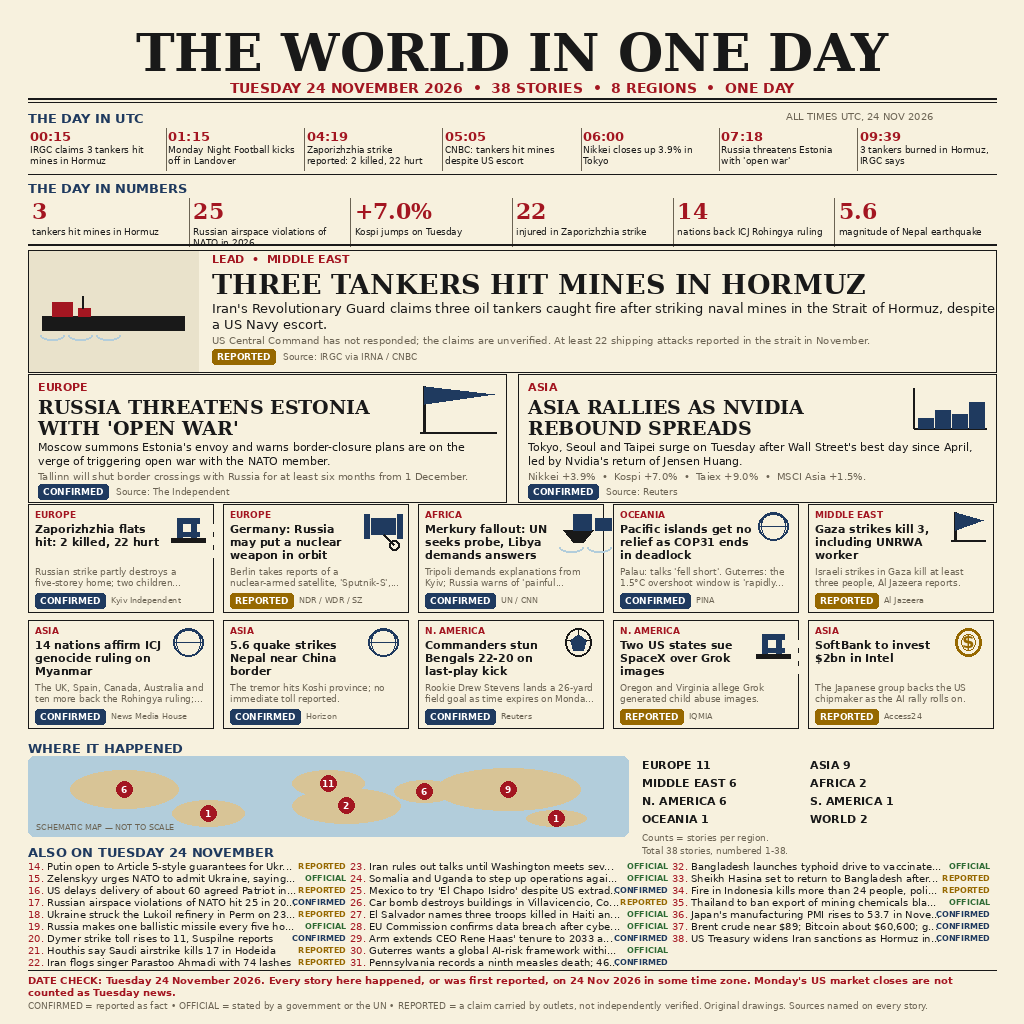
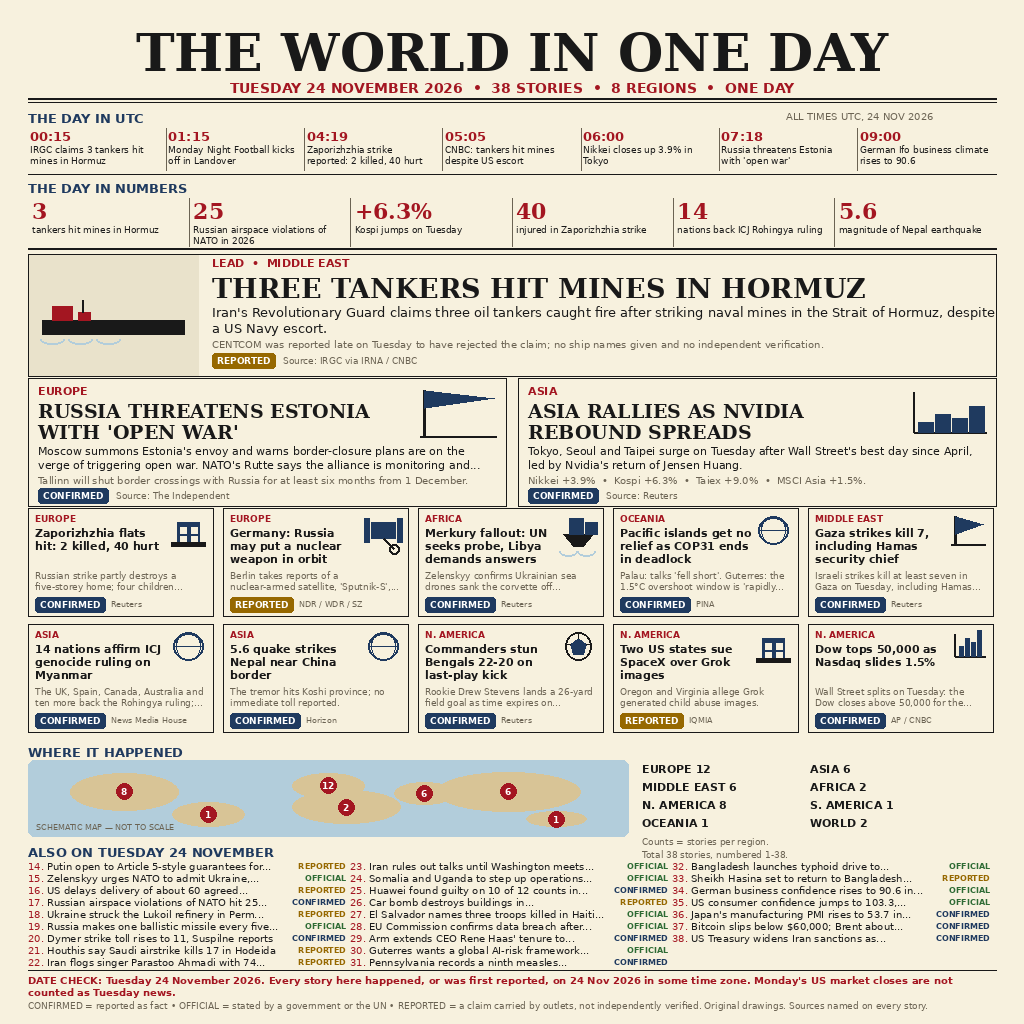
Final: 24 Nov news-image — kit level 40, 38 stories, lead Hormuz tankers

diff --git a/main.py b/main.py
@@ -1,12 +1,13 @@
 #!/usr/bin/env python3
 """The World in One Day - 24 November 2026.
 
-Renders one deterministic 1024x1024 PNG summing up the world's news of
-Tuesday 24 November 2026, from stories.json in this same directory.
+Draws one deterministic 1024x1024 PNG summing up the world's news of
+Tuesday 24 November 2026, reading the story data from stories.json next
+to this file.
 
-No network. No clock, no randomness: the same input files always produce
-the same bytes. Run:  python3 main.py   (writes /output/entry.png)
-or set OUTPUT_PATH to choose the destination.
+No network, no clock, no randomness: identical inputs always give
+identical bytes. Run:  python3 main.py   (writes /output/entry.png)
+or set OUTPUT_PATH to pick another destination.
 """
 
 import json
@@ -38,19 +39,18 @@ TAG_FILL = {
     "FORECAST": MUTED,
 }
 
-
-def font(name, size):
-    return ImageFont.truetype(os.path.join(HERE, "fonts", name), size)
-
-
 SERIF = "DejaVuSerif.ttf"
 SERIF_B = "DejaVuSerif-Bold.ttf"
 SANS = "DejaVuSans.ttf"
 SANS_B = "DejaVuSans-Bold.ttf"
 
 
+def font(name, size):
+    return ImageFont.truetype(os.path.join(HERE, "fonts", name), size)
+
+
 def wrap(text, fnt, max_w, draw):
-    """Split text into lines that fit max_w pixels."""
+    """Greedy word wrap to lines no wider than max_w pixels."""
     words = text.split()
     lines, cur = [], ""
     for word in words:
@@ -67,61 +67,70 @@ def wrap(text, fnt, max_w, draw):
 
 
 def fit_lines(text, fnt, max_w, max_lines, draw):
-    """Wrap text, truncating with an ellipsis to max_lines."""
+    """Wrap text and clip to max_lines with an ellipsis if needed.
+
+    The ellipsis always follows a whole word, never a chopped one.
+    """
     lines = wrap(text, fnt, max_w, draw)
     if len(lines) <= max_lines:
         return lines
     lines = lines[:max_lines]
     while lines and draw.textlength(lines[-1] + "...", font=fnt) > max_w:
-        lines[-1] = lines[-1][:-1]
+        words = lines[-1].split()
+        if len(words) > 1:
+            lines[-1] = " ".join(words[:-1])
+        else:
+            lines[-1] = lines[-1][:-1]
     lines[-1] = lines[-1].rstrip() + "..."
     return lines
 
 
 def one_line(text, fnt, max_w, draw):
-    """Truncate text to a single line that fits max_w."""
+    """Clip text to a single fitting line with an ellipsis if needed.
+
+    Truncation always ends at a word boundary, never mid-word.
+    """
     if draw.textlength(text, font=fnt) <= max_w:
         return text
     while text and draw.textlength(text + "...", font=fnt) > max_w:
         text = text[:-1]
-    return text.rstrip() + "..."
+    text = text.rstrip()
+    if " " in text:
+        text = text.rsplit(" ", 1)[0]
+    return text + "..."
 
 
 def chip(draw, x, y, tag):
-    """Verification tag chip; returns its width."""
+    """Draw a verification-tag chip; return its pixel width."""
     fnt = font(SANS_B, 9)
-    label = tag
-    tw = draw.textlength(label, font=fnt)
+    tw = draw.textlength(tag, font=fnt)
     w = int(tw) + 10
     h = 15
     draw.rounded_rectangle([x, y, x + w, y + h], radius=3,
                            fill=TAG_FILL.get(tag, MUTED))
-    draw.text((x + 5, y + 2), label, font=fnt, fill=(255, 255, 255))
+    draw.text((x + 5, y + 2), tag, font=fnt, fill=(255, 255, 255))
     return w
 
 
 def source_line(draw, x, y, source, max_w, size=9, prefix="Source: "):
     fnt = font(SANS, size)
-    txt = prefix + source
-    draw.text((x, y), one_line(txt, fnt, max_w, draw),
+    draw.text((x, y), one_line(prefix + source, fnt, max_w, draw),
               font=fnt, fill=MUTED)
 
 
 def draw_art(draw, kind, box, accent):
-    """Flat vector illustration inside box (x0, y0, x1, y1)."""
+    """Small flat vector drawing inside box (x0, y0, x1, y1)."""
     x0, y0, x1, y1 = box
     cx = (x0 + x1) // 2
     cy = (y0 + y1) // 2
     w = x1 - x0
-    h = y1 - y0
     if kind == "tanker":
         draw.rectangle([x0 + 4, cy + 2, x1 - 4, cy + 16], fill=INK)
         draw.rectangle([x0 + 14, cy - 12, x0 + 34, cy + 2], fill=accent)
         draw.rectangle([x0 + 40, cy - 6, x0 + 52, cy + 2], fill=accent)
         draw.line([x0 + 44, cy - 18, x0 + 44, cy - 6], fill=INK, width=2)
-        draw.arc([x0 + 2, cy + 16, x0 + 26, cy + 26], 0, 180, fill=SKY, width=2)
-        draw.arc([x0 + 30, cy + 16, x0 + 54, cy + 26], 0, 180, fill=SKY, width=2)
-        draw.arc([x0 + 58, cy + 16, x0 + 82, cy + 26], 0, 180, fill=SKY, width=2)
+        for bx in (x0 + 2, x0 + 30, x0 + 58):
+            draw.arc([bx, cy + 16, bx + 24, cy + 26], 0, 180, fill=SKY, width=2)
     elif kind == "flag":
         draw.line([x0 + 8, y0 + 4, x0 + 8, y1 - 4], fill=INK, width=3)
         draw.polygon([(x0 + 8, y0 + 4), (x1 - 6, y0 + 12),
@@ -140,9 +149,11 @@ def draw_art(draw, kind, box, accent):
         draw.rectangle([x0 + 10, y0 + 10, x1 - 10, y1 - 6], fill=NAVY)
         for r in range(3):
             for c in range(3):
-                wx = x0 + 16 + c * 14
-                wy = y0 + 16 + r * 13
-                draw.rectangle([wx, wy, wx + 7, wy + 7], fill=PAPER)
+                # Keep every window inside the art box: the old 14 px
+                # spacing pushed the right column past x1 (and the card border).
+                wx = x0 + 13 + c * 11
+                wy = y0 + 15 + r * 9
+                draw.rectangle([wx, wy, wx + 6, wy + 6], fill=PAPER)
         draw.rectangle([x0 + 4, y1 - 6, x1 - 4, y1 - 2], fill=INK)
     elif kind == "satellite":
         draw.rectangle([cx - 12, cy - 8, cx + 12, cy + 8], fill=NAVY)
@@ -151,12 +162,14 @@ def draw_art(draw, kind, box, accent):
         draw.line([cx, cy + 8, cx + 10, cy + 18], fill=INK, width=2)
         draw.ellipse([cx + 6, cy + 14, cx + 16, cy + 24], outline=INK, width=2)
     elif kind == "ship":
+        # All coordinates stay inside the art box (x0..x1, y0..y1):
+        # the old second container ended 12 px past x1, crossing the card border.
         draw.polygon([(x0 + 6, cy + 4), (x1 - 6, cy + 4),
                       (x1 - 16, cy + 16), (x0 + 16, cy + 16)], fill=INK)
-        draw.rectangle([x0 + 16, cy - 12, x0 + 34, cy + 4], fill=accent)
-        draw.rectangle([x0 + 38, cy - 8, x0 + 54, cy + 4], fill=NAVY)
-        draw.arc([x0 + 2, cy + 16, x0 + 26, cy + 26], 0, 180, fill=SKY, width=2)
-        draw.arc([x0 + 30, cy + 16, x0 + 54, cy + 26], 0, 180, fill=SKY, width=2)
+        draw.rectangle([x0 + 12, cy - 12, x0 + 26, cy + 4], fill=accent)
+        draw.rectangle([x0 + 28, cy - 8, x0 + 40, cy + 4], fill=NAVY)
+        for bx in (x0 + 2, x0 + 20):
+            draw.arc([bx, cy + 16, bx + 18, cy + 26], 0, 180, fill=SKY, width=2)
     elif kind == "globe":
         draw.ellipse([x0 + 6, y0 + 4, x1 - 6, y1 - 4], outline=NAVY, width=2)
         draw.ellipse([cx - 12, y0 + 4, cx + 12, y1 - 4], outline=NAVY, width=1)
@@ -179,7 +192,7 @@ def draw_art(draw, kind, box, accent):
 
 
 def draw_map(draw, box, regions):
-    """Schematic world map with a pin per region and its story count."""
+    """Schematic world map with a numbered pin per region."""
     regions = {k.upper(): v for k, v in regions.items()}
     x0, y0, x1, y1 = box
     draw.rounded_rectangle([x0, y0, x1, y1], radius=6, fill=SKY)
@@ -206,9 +219,8 @@ def draw_map(draw, box, regions):
     for name, fx, fy in pins:
         px = int(x0 + mw * fx)
         py = int(y0 + mh * fy)
-        n = regions.get(name, 0)
+        label = str(regions.get(name, 0))
         draw.ellipse([px - 8, py - 8, px + 8, py + 8], fill=RED)
-        label = str(n)
         tw = draw.textlength(label, font=fnt)
         draw.text((px - tw / 2, py - 5), label, font=fnt, fill=(255, 255, 255))
     draw.text((x0 + 8, y1 - 14), "SCHEMATIC MAP — NOT TO SCALE",
@@ -226,10 +238,9 @@ def main():
     y = 22
 
     # ---- Masthead ----
-    title = data["title"]
     tf = font(SERIF_B, 52)
-    tw = draw.textlength(title, font=tf)
-    draw.text(((W - tw) / 2, y), title, font=tf, fill=INK)
+    tw = draw.textlength(data["title"], font=tf)
+    draw.text(((W - tw) / 2, y), data["title"], font=tf, fill=INK)
     y += 58
     sub = "%s  •  %d STORIES  •  8 REGIONS  •  ONE DAY" % (
         data["date"], data["total_stories"])
@@ -270,16 +281,15 @@ def main():
     col_w = cw / 6
     for i, num in enumerate(data["numbers"]):
         x = mx + i * col_w
-        vf = font(SERIF_B, 22)
-        draw.text((x + 4, y), num["value"], font=vf, fill=RED)
+        draw.text((x + 4, y), num["value"], font=font(SERIF_B, 22), fill=RED)
         lines = fit_lines(num["label"], font(SANS, 9), col_w - 10, 2, draw)
-        ly = y + 28
+        ly = y + 26
         for ln in lines:
             draw.text((x + 4, ly), ln, font=font(SANS, 9), fill=INK)
             ly += 11
         if i:
             draw.line([x, y, x, y + 48], fill=MUTED, width=1)
-    y += 46
+    y += 50
     draw.line([mx, y, W - mx, y], fill=RULE, width=2)
     y += 6
 
@@ -306,14 +316,14 @@ def main():
     draw.text((tx, fy), one_line(lead["fact"], font(SANS, 10), twd, draw),
               font=font(SANS, 10), fill=MUTED)
     cw_chip = chip(draw, tx, fy + 15, lead["tag"])
-    source_line(draw, tx + cw_chip + 8, fy + 17, lead["source"], twd - cw_chip - 8)
+    source_line(draw, tx + cw_chip + 8, fy + 17, lead["source"],
+                twd - cw_chip - 8)
     draw.rectangle([mx, y, W - mx, y + 122], outline=RULE, width=1)
     y += 124
 
     # ---- Two big cards ----
-    big = data["big"]
     card_w = (cw - 12) // 2
-    for i, card in enumerate(big):
+    for i, card in enumerate(data["big"]):
         x = mx + i * (card_w + 12)
         draw.rectangle([x, y, x + card_w, y + 128], outline=RULE, width=1)
         aw = 84
@@ -332,7 +342,8 @@ def main():
         for ln in sm:
             draw.text((x + 10, sy), ln, font=font(SANS, 11), fill=INK)
             sy += 14
-        draw.text((x + 10, y + 96), card["fact"],
+        draw.text((x + 10, y + 96),
+                  one_line(card["fact"], font(SANS, 10), card_w - 20, draw),
                   font=font(SANS, 10), fill=MUTED)
         cw_chip = chip(draw, x + 10, y + 110, card["tag"])
         source_line(draw, x + 10 + cw_chip + 8, y + 112, card["source"],
@@ -340,11 +351,10 @@ def main():
     y += 130
 
     # ---- Ten small cards, 5 across x 2 rows ----
-    small = data["small"]
     cols, rows = 5, 2
     scw = (cw - 4 * 10) // cols
     sch = 108
-    for idx, card in enumerate(small):
+    for idx, card in enumerate(data["small"]):
         r, c = divmod(idx, cols)
         x = mx + c * (scw + 10)
         yy = y + r * (sch + 8)
@@ -372,7 +382,7 @@ def main():
     draw.text((mx, y), "WHERE IT HAPPENED",
               font=font(SANS_B, 13), fill=NAVY)
     y += 16
-    map_h = 80
+    map_h = 76
     map_w = int(cw * 0.62)
     draw_map(draw, (mx, y, mx + map_w, y + map_h), data["regions"])
     rx = mx + map_w + 14
@@ -383,9 +393,8 @@ def main():
     for j in range(0, 8, 2):
         for k in (0, 1):
             name = order[j + k]
-            n = rnorm.get(name, 0)
             xx = rx + k * 168
-            draw.text((xx, ry), "%s %d" % (name, n),
+            draw.text((xx, ry), "%s %d" % (name, rnorm.get(name, 0)),
                       font=font(SANS_B, 11), fill=INK)
         ry += 18
     draw.text((rx, ry + 2), "Counts = stories per region.",
@@ -402,6 +411,7 @@ def main():
     per_col = 9
     col_w = cw // 3
     fnt = font(SANS, 10)
+    tag_fnt = font(SANS_B, 8)
     for ci in range(3):
         chunk = items[ci * per_col:(ci + 1) * per_col]
         x = mx + ci * col_w
@@ -411,13 +421,13 @@ def main():
             prefix = "%d. " % num
             pw = draw.textlength(prefix, font=fnt)
             draw.text((x, ly), prefix, font=fnt, fill=RED)
-            avail = col_w - pw - 52
+            tag = it["tag"]
+            tw = draw.textlength(tag, font=tag_fnt)
+            avail = col_w - pw - tw - 14
             txt = one_line(it["text"], fnt, avail, draw)
             draw.text((x + pw, ly), txt, font=fnt, fill=INK)
-            tag = it["tag"]
-            tw = draw.textlength(tag, font=font(SANS_B, 8))
             draw.text((x + col_w - tw - 4, ly + 1), tag,
-                      font=font(SANS_B, 8), fill=TAG_FILL.get(tag, MUTED))
+                      font=tag_fnt, fill=TAG_FILL.get(tag, MUTED))
             ly += 12
     y += per_col * 12 + 2
 
